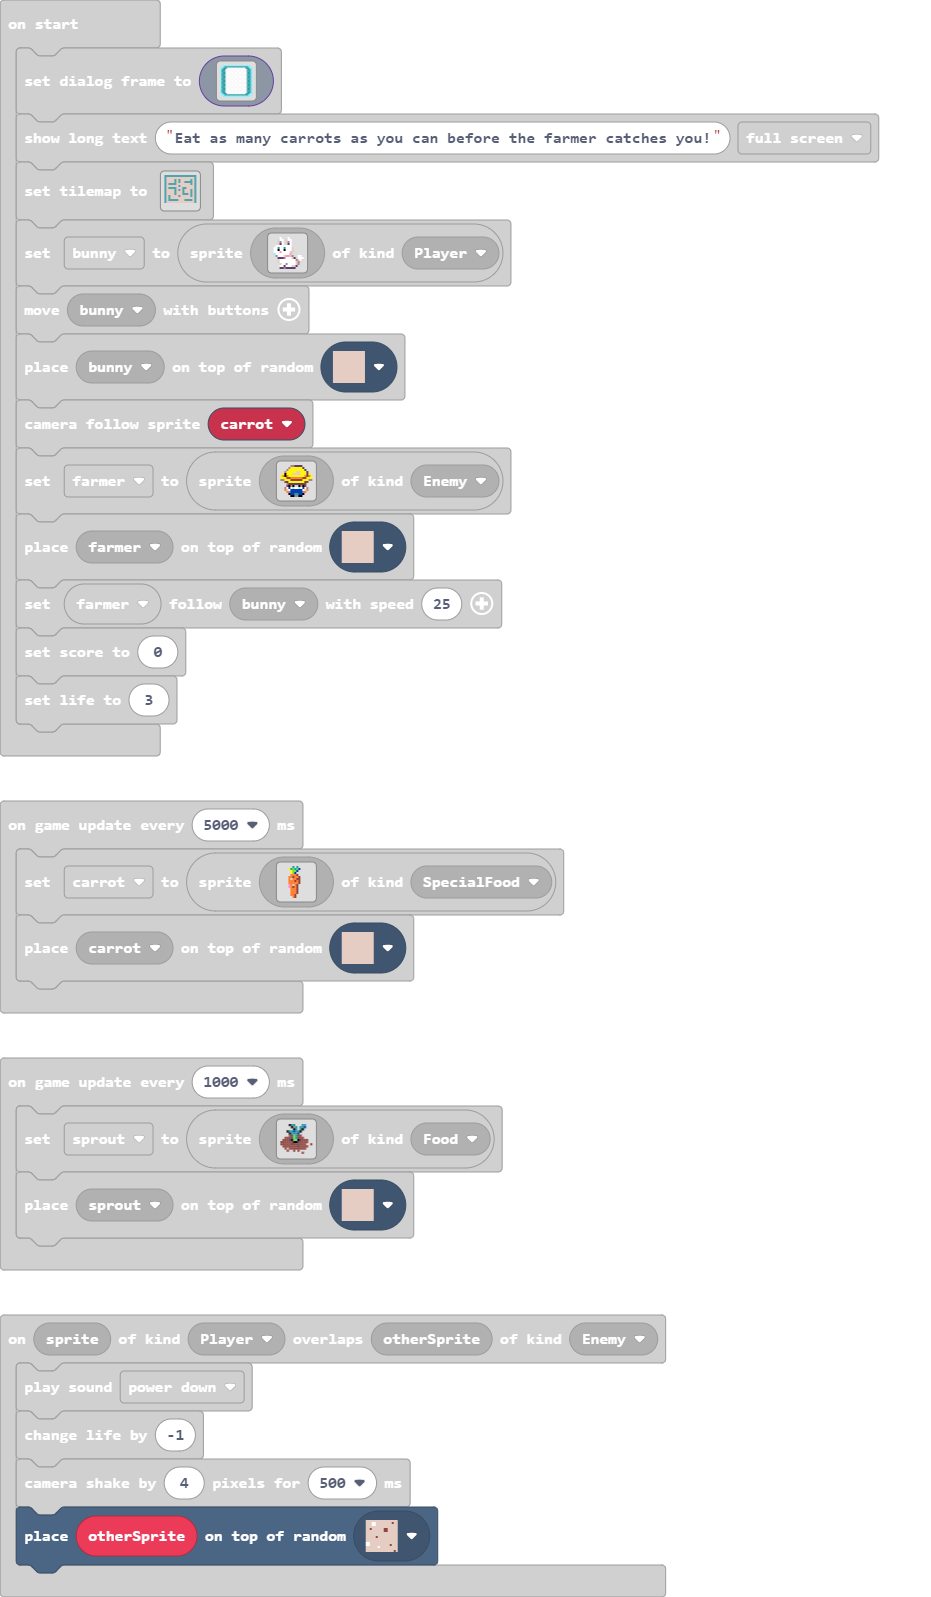
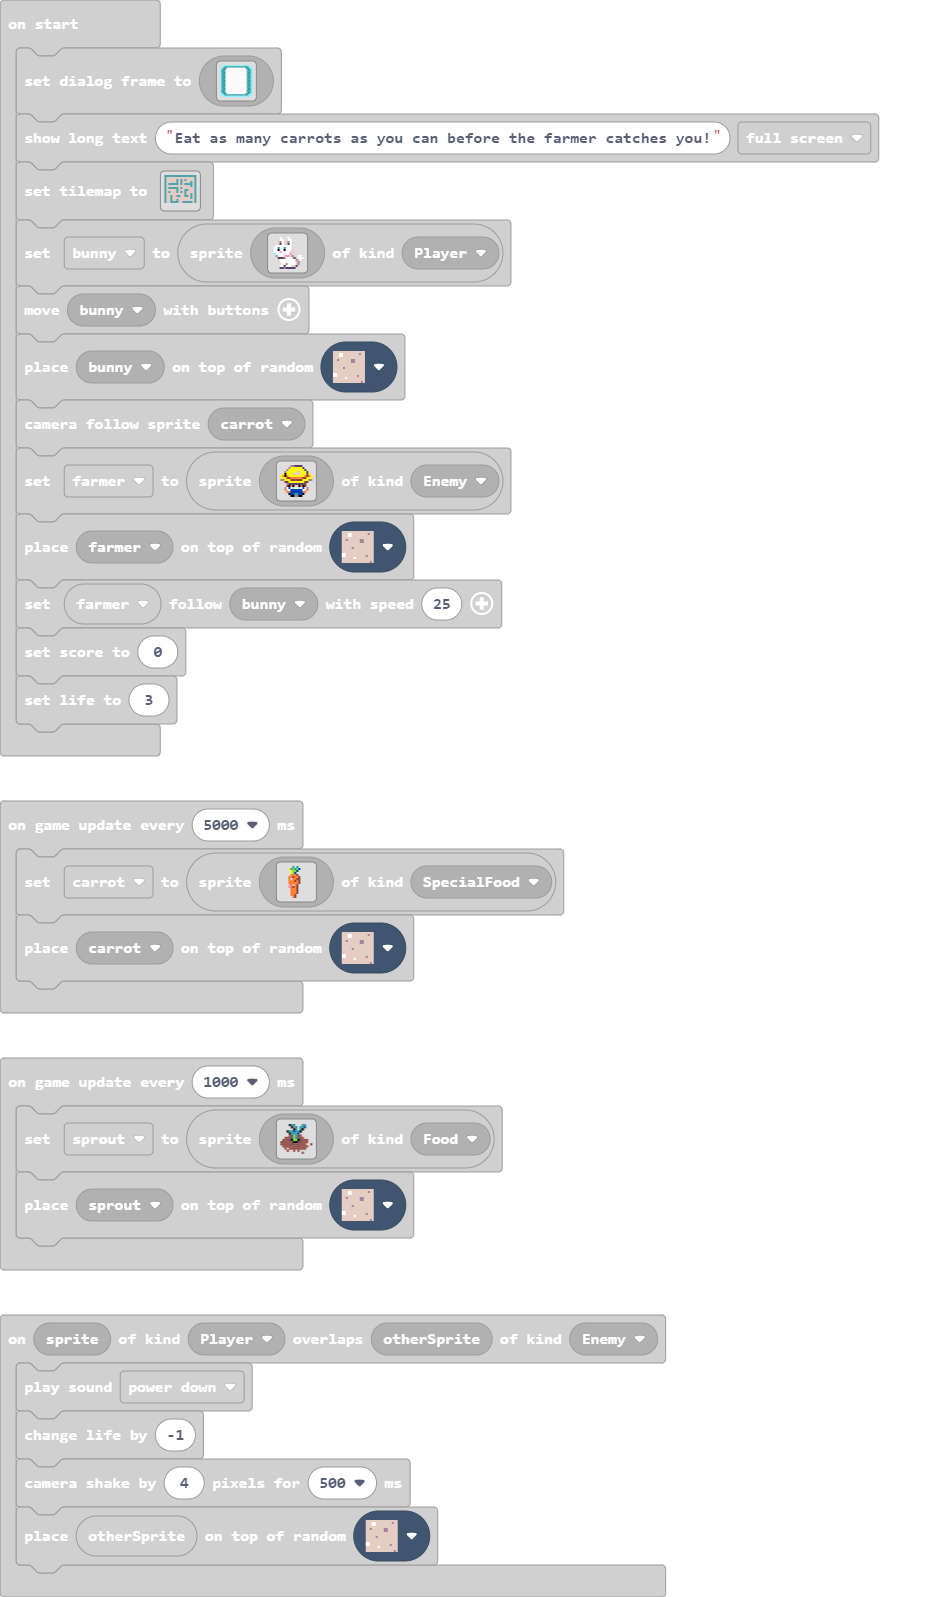
Update pxt.json, main.blocks, main.ts, tilemap.g.jres, tilemap.g.ts

diff --git a/tilemap.g.ts b/tilemap.g.ts
@@ -2,12 +2,6 @@
 namespace myTiles {
     //% fixedInstance jres blockIdentity=images._tile
     export const transparency16 = image.ofBuffer(hex``);
-    //% fixedInstance jres blockIdentity=images._tile
-    export const tile1 = image.ofBuffer(hex``);
-    //% fixedInstance jres blockIdentity=images._tile
-    export const tile3 = image.ofBuffer(hex``);
-    //% fixedInstance jres blockIdentity=images._tile
-    export const tile2 = image.ofBuffer(hex``);
 
     helpers._registerFactory("tilemap", function(name: string) {
         switch(helpers.stringTrim(name)) {
@@ -125,25 +119,177 @@ namespace myTiles {
 . . . . . . . . . . . . . . . . 
 . . . . . . . . . . . . . . . . 
 `, [myTiles.transparency16], TileScale.Sixteen);
-            case "level1":
-            case "level1":return tiles.createTilemap(hex`1000100001010101010101010101010101010101010202020202020202020202020202010102020202010201020202020201020101020202020102010202010101010201010201010101020202020202020102010102020202020201020202020202020101020101010102020201010202020201010202020201020102010202020102010102020202010202020102020201020101020202020102020201010102010201010201020202020102020202020102010102010202020202020202020202020101020101010101020202010101010201010202020202020202020202020202010000000000000000000000000000000000000000000000000000000000000000`, img`
+            case "level8":
+            case "level8":return tiles.createTilemap(hex`1000100000000000000000000000000000000000000000000000000000000000000000000000000000000000000000000000000000000000000000000000000000000000000000000000000000000000000000000000000000000000000000000000000000000000000000000000000000000000000000000000000000000000000000000000000000000000000000000000000000000000000000000000000000000000000000000000000000000000000000000000000000000000000000000000000000000000000000000000000000000000000000000000000000000000000000000000000000000000000000000000000000000000000000000000000000000000`, img`
+. . . . . . . . . . . . . . . . 
+. . . . . . . . . . . . . . . . 
+. . . . . . . . . . . . . . . . 
+. . . . . . . . . . . . . . . . 
+. . . . . . . . . . . . . . . . 
+. . . . . . . . . . . . . . . . 
+. . . . . . . . . . . . . . . . 
+. . . . . . . . . . . . . . . . 
+. . . . . . . . . . . . . . . . 
+. . . . . . . . . . . . . . . . 
+. . . . . . . . . . . . . . . . 
+. . . . . . . . . . . . . . . . 
+. . . . . . . . . . . . . . . . 
+. . . . . . . . . . . . . . . . 
+. . . . . . . . . . . . . . . . 
+. . . . . . . . . . . . . . . . 
+`, [myTiles.transparency16], TileScale.Sixteen);
+            case "level9":
+            case "level9":return tiles.createTilemap(hex`1000100000000000000000000000000000000000000000000000000000000000000000000000000000000000000000000000000000000000000000000000000000000000000000000000000000000000000000000000000000000000000000000000000000000000000000000000000000000000000000000000000000000000000000000000000000000000000000000000000000000000000000000000000000000000000000000000000000000000000000000000000000000000000000000000000000000000000000000000000000000000000000000000000000000000000000000000000000000000000000000000000000000000000000000000000000000000`, img`
+. . . . . . . . . . . . . . . . 
+. . . . . . . . . . . . . . . . 
+. . . . . . . . . . . . . . . . 
+. . . . . . . . . . . . . . . . 
+. . . . . . . . . . . . . . . . 
+. . . . . . . . . . . . . . . . 
+. . . . . . . . . . . . . . . . 
+. . . . . . . . . . . . . . . . 
+. . . . . . . . . . . . . . . . 
+. . . . . . . . . . . . . . . . 
+. . . . . . . . . . . . . . . . 
+. . . . . . . . . . . . . . . . 
+. . . . . . . . . . . . . . . . 
+. . . . . . . . . . . . . . . . 
+. . . . . . . . . . . . . . . . 
+. . . . . . . . . . . . . . . . 
+`, [myTiles.transparency16], TileScale.Sixteen);
+            case "level10":
+            case "level10":return tiles.createTilemap(hex`1000100000000000000000000000000000000000000000000000000000000000000000000000000000000000000000000000000000000000000000000000000000000000000000000000000000000000000000000000000000000000000000000000000000000000000000000000000000000000000000000000000000000000000000000000000000000000000000000000000000000000000000000000000000000000000000000000000000000000000000000000000000000000000000000000000000000000000000000000000000000000000000000000000000000000000000000000000000000000000000000000000000000000000000000000000000000000`, img`
+. . . . . . . . . . . . . . . . 
+. . . . . . . . . . . . . . . . 
+. . . . . . . . . . . . . . . . 
+. . . . . . . . . . . . . . . . 
+. . . . . . . . . . . . . . . . 
+. . . . . . . . . . . . . . . . 
+. . . . . . . . . . . . . . . . 
+. . . . . . . . . . . . . . . . 
+. . . . . . . . . . . . . . . . 
+. . . . . . . . . . . . . . . . 
+. . . . . . . . . . . . . . . . 
+. . . . . . . . . . . . . . . . 
+. . . . . . . . . . . . . . . . 
+. . . . . . . . . . . . . . . . 
+. . . . . . . . . . . . . . . . 
+. . . . . . . . . . . . . . . . 
+`, [myTiles.transparency16], TileScale.Sixteen);
+            case "level12":
+            case "level12":return tiles.createTilemap(hex`1000100000000000000000000000000000000000000000000000000000000000000000000000000000000000000000000000000000000000000000000000000000000000000000000000000000000000000000000000000000000000000000000000000000000000000000000000000000000000000000000000000000000000000000000000000000000000000000000000000000000000000000000000000000000000000000000000000000000000000000000000000000000000000000000000000000000000000000000000000000000000000000000000000000000000000000000000000000000000000000000000000000000000000000000000000000000000`, img`
+. . . . . . . . . . . . . . . . 
+. . . . . . . . . . . . . . . . 
+. . . . . . . . . . . . . . . . 
+. . . . . . . . . . . . . . . . 
+. . . . . . . . . . . . . . . . 
+. . . . . . . . . . . . . . . . 
+. . . . . . . . . . . . . . . . 
+. . . . . . . . . . . . . . . . 
+. . . . . . . . . . . . . . . . 
+. . . . . . . . . . . . . . . . 
+. . . . . . . . . . . . . . . . 
+. . . . . . . . . . . . . . . . 
+. . . . . . . . . . . . . . . . 
+. . . . . . . . . . . . . . . . 
+. . . . . . . . . . . . . . . . 
+. . . . . . . . . . . . . . . . 
+`, [myTiles.transparency16], TileScale.Sixteen);
+            case "level13":
+            case "level13":return tiles.createTilemap(hex`1000100000000000000000000000000000000000000000000000000000000000000000000000000000000000000000000000000000000000000000000000000000000000000000000000000000000000000000000000000000000000000000000000000000000000000000000000000000000000000000000000000000000000000000000000000000000000000000000000000000000000000000000000000000000000000000000000000000000000000000000000000000000000000000000000000000000000000000000000000000000000000000000000000000000000000000000000000000000000000000000000000000000000000000000000000000000000`, img`
+. . . . . . . . . . . . . . . . 
+. . . . . . . . . . . . . . . . 
+. . . . . . . . . . . . . . . . 
+. . . . . . . . . . . . . . . . 
+. . . . . . . . . . . . . . . . 
+. . . . . . . . . . . . . . . . 
+. . . . . . . . . . . . . . . . 
+. . . . . . . . . . . . . . . . 
+. . . . . . . . . . . . . . . . 
+. . . . . . . . . . . . . . . . 
+. . . . . . . . . . . . . . . . 
+. . . . . . . . . . . . . . . . 
+. . . . . . . . . . . . . . . . 
+. . . . . . . . . . . . . . . . 
+. . . . . . . . . . . . . . . . 
+. . . . . . . . . . . . . . . . 
+`, [myTiles.transparency16], TileScale.Sixteen);
+            case "level14":
+            case "level14":return tiles.createTilemap(hex`1000100000000000000000000000000000000000000000000000000000000000000000000000000000000000000000000000000000000000000000000000000000000000000000000000000000000000000000000000000000000000000000000000000000000000000000000000000000000000000000000000000000000000000000000000000000000000000000000000000000000000000000000000000000000000000000000000000000000000000000000000000000000000000000000000000000000000000000000000000000000000000000000000000000000000000000000000000000000000000000000000000000000000000000000000000000000000`, img`
+. . . . . . . . . . . . . . . . 
+. . . . . . . . . . . . . . . . 
+. . . . . . . . . . . . . . . . 
+. . . . . . . . . . . . . . . . 
+. . . . . . . . . . . . . . . . 
+. . . . . . . . . . . . . . . . 
+. . . . . . . . . . . . . . . . 
+. . . . . . . . . . . . . . . . 
+. . . . . . . . . . . . . . . . 
+. . . . . . . . . . . . . . . . 
+. . . . . . . . . . . . . . . . 
+. . . . . . . . . . . . . . . . 
+. . . . . . . . . . . . . . . . 
+. . . . . . . . . . . . . . . . 
+. . . . . . . . . . . . . . . . 
+. . . . . . . . . . . . . . . . 
+`, [myTiles.transparency16], TileScale.Sixteen);
+            case "level15":
+            case "level15":return tiles.createTilemap(hex`1000100000000000000000000000000000000000000000000000000000000000000000000000000000000000000000000000000000000000000000000000000000000000000000000000000000000000000000000000000000000000000000000000000000000000000000000000000000000000000000000000000000000000000000000000000000000000000000000000000000000000000000000000000000000000000000000000000000000000000000000000000000000000000000000000000000000000000000000000000000000000000000000000000000000000000000000000000000000000000000000000000000000000000000000000000000000000`, img`
+. . . . . . . . . . . . . . . . 
+. . . . . . . . . . . . . . . . 
+. . . . . . . . . . . . . . . . 
+. . . . . . . . . . . . . . . . 
+. . . . . . . . . . . . . . . . 
+. . . . . . . . . . . . . . . . 
+. . . . . . . . . . . . . . . . 
+. . . . . . . . . . . . . . . . 
+. . . . . . . . . . . . . . . . 
+. . . . . . . . . . . . . . . . 
+. . . . . . . . . . . . . . . . 
+. . . . . . . . . . . . . . . . 
+. . . . . . . . . . . . . . . . 
+. . . . . . . . . . . . . . . . 
+. . . . . . . . . . . . . . . . 
+. . . . . . . . . . . . . . . . 
+`, [myTiles.transparency16], TileScale.Sixteen);
+            case "level11":
+            case "level11":return tiles.createTilemap(hex`1000100000000000000000000000000000000000000000000000000000000000000000000000000000000000000000000000000000000000000000000000000000000000000000000000000000000000000000000000000000000000000000000000000000000000000000000000000000000000000000000000000000000000000000000000000000000000000000000000000000000000000000000000000000000000000000000000000000000000000000000000000000000000000000000000000000000000000000000000000000000000000000000000000000000000000000000000000000000000000000000000000000000000000000000000000000000000`, img`
+. . . . . . . . . . . . . . . . 
+. . . . . . . . . . . . . . . . 
+. . . . . . . . . . . . . . . . 
+. . . . . . . . . . . . . . . . 
+. . . . . . . . . . . . . . . . 
+. . . . . . . . . . . . . . . . 
+. . . . . . . . . . . . . . . . 
+. . . . . . . . . . . . . . . . 
+. . . . . . . . . . . . . . . . 
+. . . . . . . . . . . . . . . . 
+. . . . . . . . . . . . . . . . 
+. . . . . . . . . . . . . . . . 
+. . . . . . . . . . . . . . . . 
+. . . . . . . . . . . . . . . . 
+. . . . . . . . . . . . . . . . 
+. . . . . . . . . . . . . . . . 
+`, [myTiles.transparency16], TileScale.Sixteen);
+            case "explore2":
+            case "level1":return tiles.createTilemap(hex`1000100002020202020202020202020202020202020101010101010101010101010101020201010101010201020102010101010202010101010102010201010101020102020102020202020102010202020201020201010101010101010101010102010202010202020202010201010101010102020101010101020101010202010101020201020101010201020102010101010202010101010101010101020101020102020101020101020201010202010201020201010201010101010101010102010202010102010102010101010101010102020101020202020101020202020201020000000000000000000000000000000000000000000000000000000000000000`, img`
 2 2 2 2 2 2 2 2 2 2 2 2 2 2 2 2 
 2 . . . . . . . . . . . . . . 2 
-2 . . . . 2 . 2 . . . . . 2 . 2 
-2 . . . . 2 . 2 . . 2 2 2 2 . 2 
-2 . 2 2 2 2 . . . . . . . 2 . 2 
-2 . . . . . . 2 . . . . . . . 2 
-2 . 2 2 2 2 . . . 2 2 . . . . 2 
-2 . . . . 2 . 2 . 2 . . . 2 . 2 
-2 . . . . 2 . . . 2 . . . 2 . 2 
-2 . . . . 2 . . . 2 2 2 . 2 . 2 
-2 . 2 . . . . 2 . . . . . 2 . 2 
-2 . 2 . . . . . . . . . . . . 2 
-2 . 2 2 2 2 2 . . . 2 2 2 2 . 2 
-2 . . . . . . . . . . . . . . 2 
+2 . . . . . 2 . 2 . 2 . . . . 2 
+2 . . . . . 2 . 2 . . . . 2 . 2 
+2 . 2 2 2 2 2 . 2 . 2 2 2 2 . 2 
+2 . . . . . . . . . . . . 2 . 2 
+2 . 2 2 2 2 2 . 2 . . . . . . 2 
+2 . . . . . 2 . . . 2 2 . . . 2 
+2 . 2 . . . 2 . 2 . 2 . . . . 2 
+2 . . . . . . . . . 2 . . 2 . 2 
+2 . . 2 . . 2 2 . . 2 2 . 2 . 2 
+2 . . 2 . . . . . . . . . 2 . 2 
+2 . . 2 . . 2 . . . . . . . . 2 
+2 . . 2 2 2 2 . . 2 2 2 2 2 . 2 
 . . . . . . . . . . . . . . . . 
 . . . . . . . . . . . . . . . . 
-`, [myTiles.transparency16,sprites.castle.tileDarkGrass2,myTiles.tile2], TileScale.Sixteen);
+`, [myTiles.transparency16,sprites.castle.tilePath5,sprites.castle.tileDarkGrass2], TileScale.Sixteen);
         }
         return null;
     })
@@ -151,12 +297,6 @@ namespace myTiles {
     helpers._registerFactory("tile", function(name: string) {
         switch(helpers.stringTrim(name)) {
             case "transparency16":return transparency16;
-            case "myTile":
-            case "tile1":return tile1;
-            case "myTile1":
-            case "tile3":return tile3;
-            case "myTile0":
-            case "tile2":return tile2;
         }
         return null;
     })

diff --git a/main.ts b/main.ts
@@ -45,7 +45,7 @@ sprites.onOverlap(SpriteKind.Player, SpriteKind.Enemy, function (sprite, otherSp
     music.powerDown.play()
     info.changeLifeBy(-1)
     scene.cameraShake(4, 500)
-    tiles.placeOnRandomTile(otherSprite, assets.tile`myTile`)
+    tiles.placeOnRandomTile(otherSprite, sprites.castle.tilePath5)
 })
 let sprout: Sprite = null
 let carrot: Sprite = null
@@ -76,7 +76,7 @@ game.setDialogFrame(img`
     ..99999999999999999999..
     `)
 game.showLongText("Eat as many carrots as you can before the farmer catches you!", DialogLayout.Full)
-tiles.setTilemap(tilemap`level1`)
+tiles.setTilemap(tilemap`explore2`)
 let bunny = sprites.create(img`
     . . . . 1 . . . 1 . . . . . . . 
     . . . d 1 1 . d 1 1 . . . . . . 
@@ -96,7 +96,7 @@ let bunny = sprites.create(img`
     . . . . c c b c c c c c . . . . 
     `, SpriteKind.Player)
 controller.moveSprite(bunny)
-tiles.placeOnRandomTile(bunny, assets.tile`myTile0`)
+tiles.placeOnRandomTile(bunny, sprites.castle.tilePath5)
 scene.cameraFollowSprite(carrot)
 let farmer = sprites.create(img`
     . . . . . b b c c c c . . . . . 
@@ -116,7 +116,7 @@ let farmer = sprites.create(img`
     . . . . f 8 8 6 6 8 8 f . . . . 
     . . . . . f f b b f f . . . . . 
     `, SpriteKind.Enemy)
-tiles.placeOnRandomTile(farmer, assets.tile`myTile0`)
+tiles.placeOnRandomTile(farmer, sprites.castle.tilePath5)
 farmer.follow(bunny, 25)
 info.setScore(0)
 info.setLife(3)
@@ -139,7 +139,7 @@ game.onUpdateInterval(5000, function () {
         . . . . . 4 4 e . . . . . . . . 
         . . . . . . 4 e . . . . . . . . 
         `, SpriteKind.SpecialFood)
-    tiles.placeOnRandomTile(carrot, assets.tile`myTile0`)
+    tiles.placeOnRandomTile(carrot, sprites.castle.tilePath5)
 })
 game.onUpdateInterval(1000, function () {
     sprout = sprites.create(img`
@@ -158,5 +158,5 @@ game.onUpdateInterval(1000, function () {
         . . . e . . e . e . . . . . . 
         . . . . . . . . . . e . . . . 
         `, SpriteKind.Food)
-    tiles.placeOnRandomTile(sprout, assets.tile`myTile0`)
+    tiles.placeOnRandomTile(sprout, sprites.castle.tilePath5)
 })
